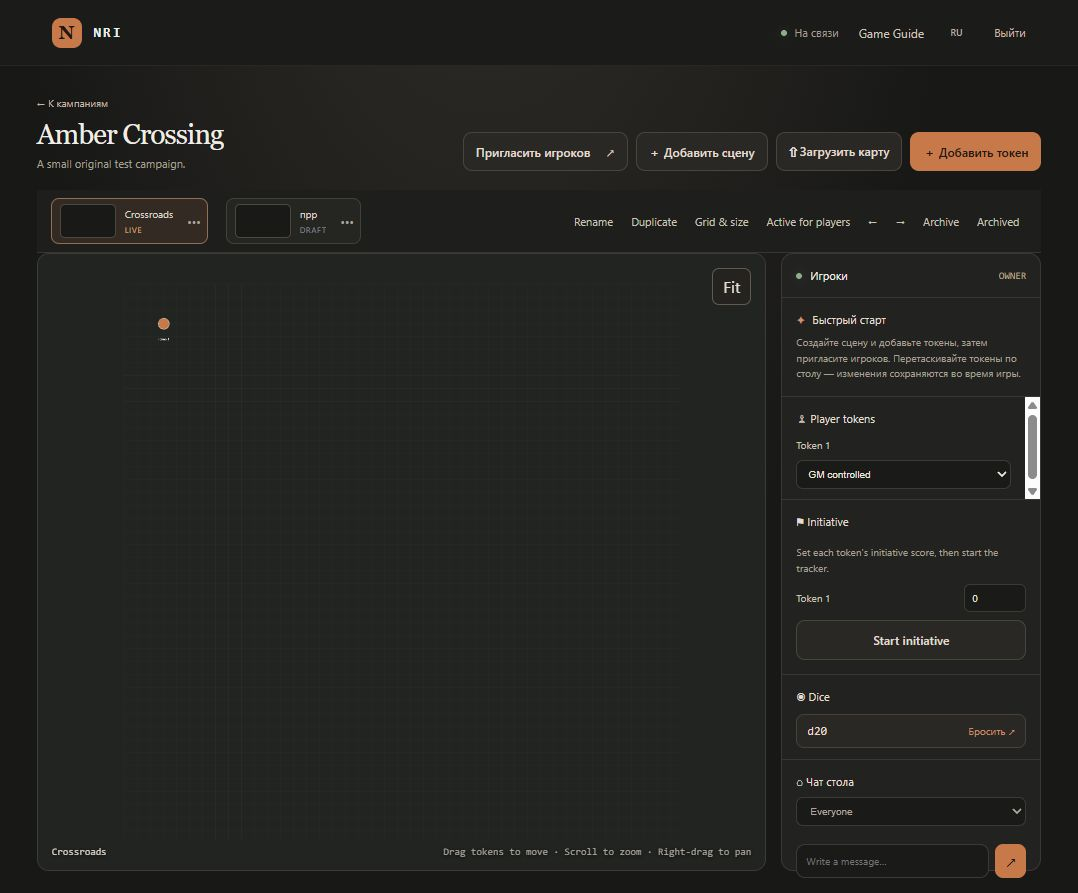
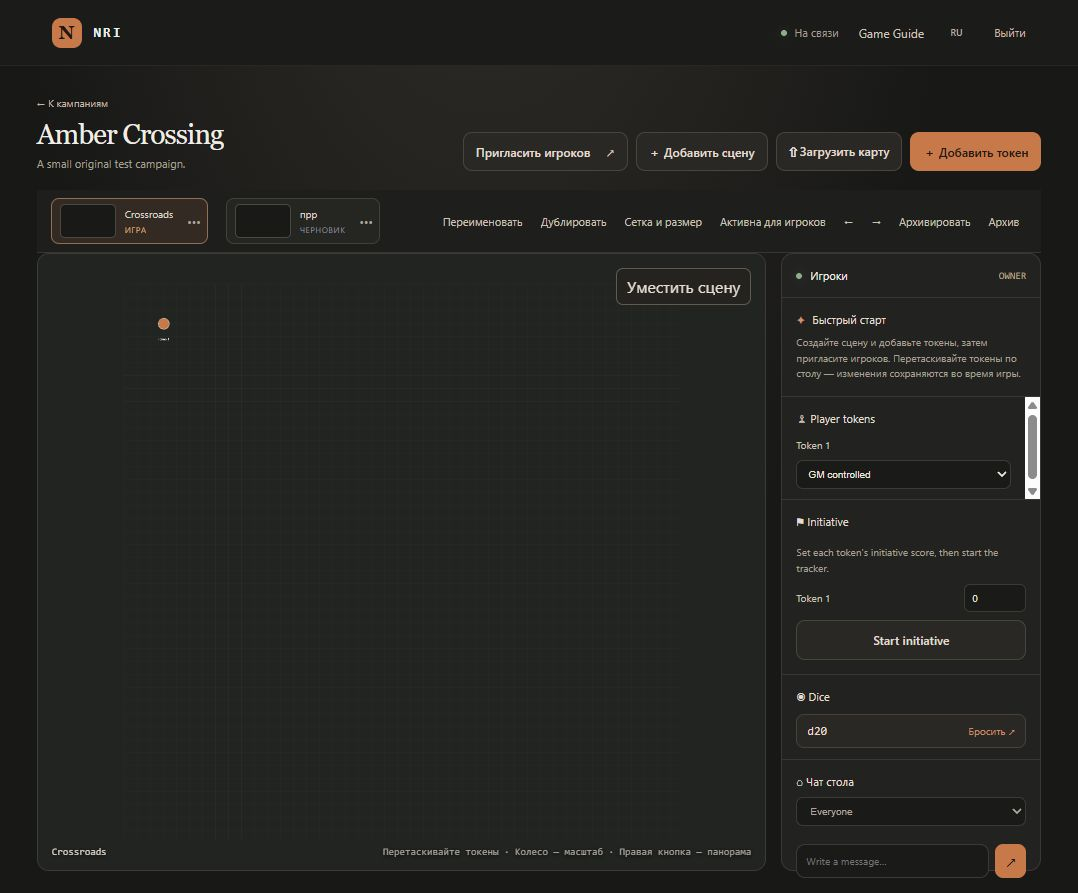
fix(web): localize scene preparation controls

diff --git a/apps/web/src/ui/App.tsx b/apps/web/src/ui/App.tsx
@@ -268,15 +268,15 @@ export function App() {
   return <main className="app-shell"><header className="topbar"><button className="brand" onClick={() => setCampaign(null)}><span className="brand-mark small">N</span><span>NRI</span></button><div className="topbar-right">{campaign && <span className={`live-status ${connected ? 'online' : ''}`}><i />{t(connected ? 'connection' : 'offline')}</span>}<span className="user-chip">{user.displayName}</span><button className="icon-button" title="Language" onClick={() => void i18n.changeLanguage(i18n.language === 'en' ? 'ru' : 'en')}>{i18n.language.toUpperCase()}</button><button className="quiet-button" onClick={() => void api('/api/auth/logout', { method: 'POST' }).finally(() => { setUser(null); setCampaign(null); socket.disconnect(); })}>{t('signOut')}</button></div></header>
     {!campaign ? <section className="campaign-home"><div className="welcome"><p className="eyebrow">YOUR ADVENTURE STARTS HERE</p><h1>{t('campaigns')}</h1><p className="muted">Gather your group and make a little room for the unexpected.</p></div><div className="campaign-layout"><div className="campaign-list">{campaigns.map((item) => <button key={item.campaign.id} className="campaign-card" onClick={() => setCampaign(item)}><span className="campaign-art"><span>✳</span></span><span><strong>{item.campaign.title}</strong><small>{item.campaign.description || item.role}</small></span><span className="card-arrow">↗</span></button>)}{campaigns.length === 0 && <p className="empty-state">{t('noCampaigns')}</p>}</div><form className="create-card" onSubmit={createCampaign}><p className="eyebrow">START SOMETHING NEW</p><h2>{t('newCampaign')}</h2><label>{t('title')}<input name="title" maxLength={80} required /></label><label>{t('description')}<textarea name="description" maxLength={500} rows={3} /></label><button className="button primary" disabled={busy}>{t('create')} <span>↗</span></button></form></div></section> : <section className="table-layout">
       <header className="table-heading"><div><button className="back-link" onClick={() => setCampaign(null)}>← {t('back')}</button><h1>{campaign.campaign.title}</h1><p>{campaign.campaign.description}</p></div><div className="table-actions">{canManage && <><button className="button secondary" onClick={() => void invite()}>{t('invite')} <span>↗</span></button><button className="button secondary" onClick={() => { setSceneTitle(''); setSceneDialog('create'); }}>＋ {t('addScene')}</button><button className="button secondary" onClick={() => mapInput.current?.click()} disabled={!scene}>⇧ {t('uploadMap')}</button><input ref={mapInput} type="file" accept="image/png,image/jpeg,image/webp" hidden onChange={uploadBackground} /><button className="button primary" onClick={() => void addToken()} disabled={!scene}>＋ {t('addToken')}</button></>}</div></header>
-      <div className="scene-workbench"><div className="scene-tabs">{scenes.map((item) => <div className={`scene-tab-wrap ${scene?.id === item.id ? 'selected' : ''}`} key={item.id} onContextMenu={(event) => { event.preventDefault(); if (canManage) setSceneMenu({ x: event.clientX, y: event.clientY, scene: item }); }}><button className="scene-tab" onClick={() => void openScene(item)}><span className="scene-thumbnail" style={item.backgroundAssetId ? { backgroundImage: `url(/api/assets/${item.backgroundAssetId})` } : undefined} /><span className="scene-tab-copy">{item.title}<small className={item.isActive ? 'scene-live' : 'scene-draft'}>{canManage ? (item.isActive ? 'LIVE' : 'DRAFT') : 'SCENE'}</small></span></button>{canManage && <button className="scene-menu-trigger" aria-label={`Actions for ${item.title}`} onClick={(event) => setSceneMenu({ x: event.currentTarget.getBoundingClientRect().left, y: event.currentTarget.getBoundingClientRect().bottom, scene: item })}>•••</button>}</div>)}{!scenes.length && <span className="muted">Create a scene to set up the table.</span>}</div>{canManage && scene && <div className="scene-actions"><button className="quiet-button" onClick={() => { setSceneTitle(scene.title); setSceneDialog('rename'); }}>Rename</button><button className="quiet-button" onClick={() => void duplicateScene(scene)}>Duplicate</button><button className="quiet-button" onClick={() => setSceneDialog('grid')}>Grid & size</button><button className="quiet-button" disabled={scene.isActive} onClick={() => activateScene(scene)}>{scene.isActive ? 'Active for players' : 'Set active'}</button><button className="quiet-button" onClick={() => void reorderScene(scene, -1)}>←</button><button className="quiet-button" onClick={() => void reorderScene(scene, 1)}>→</button><button className="quiet-button" onClick={() => void archiveScene(scene)}>Archive</button><button className="quiet-button" onClick={() => void loadArchivedScenes()}>{showArchivedScenes ? 'Hide archived' : 'Archived'}</button></div>}{canManage && showArchivedScenes && archivedScenes.length > 0 && <div className="archived-scenes">{archivedScenes.map((item) => <span key={item.id}>{item.title}<button className="quiet-button" onClick={() => void restoreScene(item)}>Restore</button></span>)}</div>}</div>
-      <div className="table-content"><section className="table-main">{scene ? <Suspense fallback={<div className="canvas-loading">Loading tabletop…</div>}><TableCanvas tokens={tokens} gridSize={scene.gridSize} gridColor={scene.gridColor} gridOpacity={scene.gridOpacity} gridOffsetX={scene.gridOffsetX} gridOffsetY={scene.gridOffsetY} gridEnabled={scene.gridEnabled} snapToGrid={scene.snapToGrid} backgroundUrl={scene.backgroundAssetId ? `/api/assets/${scene.backgroundAssetId}` : undefined} sceneId={scene.id} sceneWidth={scene.width} sceneHeight={scene.height} cameraX={scene.cameraX} cameraY={scene.cameraY} cameraZoom={scene.cameraZoom} onMove={moveToken} canEdit={(token) => canManage || token.ownerUserId === user.id} /></Suspense> : <div className="empty-table"><div className="brand-mark">✳</div><h2>{t('guide')}</h2><p>{t('guideText')}</p>{canManage && <button className="button primary" onClick={() => setSceneDialog('create')}>{t('addScene')}</button>}</div>}<div className="canvas-toolbar"><span>{scene?.title ?? t('mapLabel')}</span><span className="zoom-hint">Drag tokens to move · Scroll to zoom · Right-drag to pan</span></div></section><aside className="right-rail"><div className="rail-header"><span className="online-dot" /> {t('players')} <span className="role-badge">{role}</span></div><section className="rail-section"><div className="section-title"><span>✦</span> {t('guide')}</div><p className="guide-copy">{t('guideText')}</p></section>{canManage && <section className="rail-section token-owners"><div className="section-title">♙ Player tokens</div>{tokens.map((token) => <label key={token.id}>{token.name}<select aria-label={`Owner for ${token.name}`} value={token.ownerUserId ?? ''} onChange={(event) => void assignToken(token, event.target.value)}><option value="">GM controlled</option>{members.filter((member) => member.role === 'PLAYER').map((member) => <option value={member.userId} key={member.userId}>{member.displayName}</option>)}</select></label>)}</section>}{scene && <section className="rail-section initiative-section"><div className="section-title">⚑ Initiative</div>{initiative.tracker?.active ? <><p className="guide-copy">Round {initiative.tracker.round}</p><div className="initiative-list">{initiative.entries.map((entry) => <div className={initiative.tracker?.currentEntryId === entry.id ? "initiative-row active" : "initiative-row"} key={entry.id}><span>{entry.label}</span><strong>{entry.score}</strong></div>)}</div>{canManage && <div className="initiative-actions"><button className="button secondary" onClick={() => void advanceInitiative()}>Next turn ↗</button><button className="quiet-button" onClick={() => void stopInitiative()}>Stop</button></div>}</> : canManage ? <><p className="guide-copy">Set each token's initiative score, then start the tracker.</p>{tokens.map((token) => <label className="initiative-score" key={token.id}>{token.name}<input type="number" min="-9999" max="9999" value={initiativeScores[token.id] ?? "0"} onChange={(event) => setInitiativeScores((scores) => ({ ...scores, [token.id]: event.target.value }))} /></label>)}<button className="button secondary" disabled={!tokens.length} onClick={() => void startInitiative()}>Start initiative</button></> : <p className="guide-copy">Initiative is not active.</p>}</section>}<section className="rail-section roll-section"><div className="section-title">◉ Dice</div><button className="roll-button" onClick={rollDice}>d20 <span>{t('roll')} ↗</span></button>{rolls.slice(-4).reverse().map((roll, i) => <div className="roll-row" key={`${roll.id ?? i}-${i}`}><span>{roll.displayName} rolled {roll.expression}</span><strong>{roll.result}</strong></div>)}</section><section className="rail-section chat-section"><div className="section-title">◌ {t('chat')}</div><select className="message-recipient" aria-label="Message recipient" value={messageRecipient} onChange={(event) => setMessageRecipient(event.target.value)}><option value="">Everyone</option>{members.filter((member) => member.userId !== user.id && (canManage || member.role === 'OWNER' || member.role === 'GM')).map((member) => <option key={member.userId} value={member.userId}>Private · {member.displayName}</option>)}</select><div className="chat-messages">{messages.map((message) => <div className={`chat-message ${message.private ? 'private' : ''}`} key={message.id}><strong>{message.private ? '🔒 ' : ''}{message.displayName}</strong><p>{message.body}</p></div>)}</div><form className="chat-compose" onSubmit={sendChat}><input value={chatText} onChange={(e) => setChatText(e.target.value)} maxLength={2000} placeholder="Write a message…" /><button aria-label={t('send')}>↗</button></form></section></aside></div>
+      <div className="scene-workbench"><div className="scene-tabs">{scenes.map((item) => <div className={`scene-tab-wrap ${scene?.id === item.id ? 'selected' : ''}`} key={item.id} onContextMenu={(event) => { event.preventDefault(); if (canManage) setSceneMenu({ x: event.clientX, y: event.clientY, scene: item }); }}><button className="scene-tab" onClick={() => void openScene(item)}><span className="scene-thumbnail" style={item.backgroundAssetId ? { backgroundImage: `url(/api/assets/${item.backgroundAssetId})` } : undefined} /><span className="scene-tab-copy">{item.title}<small className={item.isActive ? 'scene-live' : 'scene-draft'}>{canManage ? t(item.isActive ? 'live' : 'draft') : t('scene')}</small></span></button>{canManage && <button className="scene-menu-trigger" aria-label={`Actions for ${item.title}`} onClick={(event) => setSceneMenu({ x: event.currentTarget.getBoundingClientRect().left, y: event.currentTarget.getBoundingClientRect().bottom, scene: item })}>•••</button>}</div>)}{!scenes.length && <span className="muted">Create a scene to set up the table.</span>}</div>{canManage && scene && <div className="scene-actions"><button className="quiet-button" onClick={() => { setSceneTitle(scene.title); setSceneDialog('rename'); }}>{t('renameScene')}</button><button className="quiet-button" onClick={() => void duplicateScene(scene)}>{t('duplicateScene')}</button><button className="quiet-button" onClick={() => setSceneDialog('grid')}>{t('gridSettings')}</button><button className="quiet-button" disabled={scene.isActive} onClick={() => activateScene(scene)}>{scene.isActive ? t('activeForPlayers') : t('setActive')}</button><button className="quiet-button" onClick={() => void reorderScene(scene, -1)}>←</button><button className="quiet-button" onClick={() => void reorderScene(scene, 1)}>→</button><button className="quiet-button" onClick={() => void archiveScene(scene)}>{t('archive')}</button><button className="quiet-button" onClick={() => void loadArchivedScenes()}>{showArchivedScenes ? t('hideArchived') : t('archived')}</button></div>}{canManage && showArchivedScenes && archivedScenes.length > 0 && <div className="archived-scenes">{archivedScenes.map((item) => <span key={item.id}>{item.title}<button className="quiet-button" onClick={() => void restoreScene(item)}>{t('restore')}</button></span>)}</div>}</div>
+      <div className="table-content"><section className="table-main">{scene ? <Suspense fallback={<div className="canvas-loading">Loading tabletop…</div>}><TableCanvas tokens={tokens} gridSize={scene.gridSize} gridColor={scene.gridColor} gridOpacity={scene.gridOpacity} gridOffsetX={scene.gridOffsetX} gridOffsetY={scene.gridOffsetY} gridEnabled={scene.gridEnabled} snapToGrid={scene.snapToGrid} backgroundUrl={scene.backgroundAssetId ? `/api/assets/${scene.backgroundAssetId}` : undefined} sceneId={scene.id} sceneWidth={scene.width} sceneHeight={scene.height} cameraX={scene.cameraX} cameraY={scene.cameraY} cameraZoom={scene.cameraZoom} onMove={moveToken} fitLabel={t('fitScene')} canEdit={(token) => canManage || token.ownerUserId === user.id} /></Suspense> : <div className="empty-table"><div className="brand-mark">✳</div><h2>{t('guide')}</h2><p>{t('guideText')}</p>{canManage && <button className="button primary" onClick={() => setSceneDialog('create')}>{t('addScene')}</button>}</div>}<div className="canvas-toolbar"><span>{scene?.title ?? t('mapLabel')}</span><span className="zoom-hint">{t('canvasHelp')}</span></div></section><aside className="right-rail"><div className="rail-header"><span className="online-dot" /> {t('players')} <span className="role-badge">{role}</span></div><section className="rail-section"><div className="section-title"><span>✦</span> {t('guide')}</div><p className="guide-copy">{t('guideText')}</p></section>{canManage && <section className="rail-section token-owners"><div className="section-title">♙ Player tokens</div>{tokens.map((token) => <label key={token.id}>{token.name}<select aria-label={`Owner for ${token.name}`} value={token.ownerUserId ?? ''} onChange={(event) => void assignToken(token, event.target.value)}><option value="">GM controlled</option>{members.filter((member) => member.role === 'PLAYER').map((member) => <option value={member.userId} key={member.userId}>{member.displayName}</option>)}</select></label>)}</section>}{scene && <section className="rail-section initiative-section"><div className="section-title">⚑ Initiative</div>{initiative.tracker?.active ? <><p className="guide-copy">Round {initiative.tracker.round}</p><div className="initiative-list">{initiative.entries.map((entry) => <div className={initiative.tracker?.currentEntryId === entry.id ? "initiative-row active" : "initiative-row"} key={entry.id}><span>{entry.label}</span><strong>{entry.score}</strong></div>)}</div>{canManage && <div className="initiative-actions"><button className="button secondary" onClick={() => void advanceInitiative()}>Next turn ↗</button><button className="quiet-button" onClick={() => void stopInitiative()}>Stop</button></div>}</> : canManage ? <><p className="guide-copy">Set each token's initiative score, then start the tracker.</p>{tokens.map((token) => <label className="initiative-score" key={token.id}>{token.name}<input type="number" min="-9999" max="9999" value={initiativeScores[token.id] ?? "0"} onChange={(event) => setInitiativeScores((scores) => ({ ...scores, [token.id]: event.target.value }))} /></label>)}<button className="button secondary" disabled={!tokens.length} onClick={() => void startInitiative()}>Start initiative</button></> : <p className="guide-copy">Initiative is not active.</p>}</section>}<section className="rail-section roll-section"><div className="section-title">◉ Dice</div><button className="roll-button" onClick={rollDice}>d20 <span>{t('roll')} ↗</span></button>{rolls.slice(-4).reverse().map((roll, i) => <div className="roll-row" key={`${roll.id ?? i}-${i}`}><span>{roll.displayName} rolled {roll.expression}</span><strong>{roll.result}</strong></div>)}</section><section className="rail-section chat-section"><div className="section-title">◌ {t('chat')}</div><select className="message-recipient" aria-label="Message recipient" value={messageRecipient} onChange={(event) => setMessageRecipient(event.target.value)}><option value="">Everyone</option>{members.filter((member) => member.userId !== user.id && (canManage || member.role === 'OWNER' || member.role === 'GM')).map((member) => <option key={member.userId} value={member.userId}>Private · {member.displayName}</option>)}</select><div className="chat-messages">{messages.map((message) => <div className={`chat-message ${message.private ? 'private' : ''}`} key={message.id}><strong>{message.private ? '🔒 ' : ''}{message.displayName}</strong><p>{message.body}</p></div>)}</div><form className="chat-compose" onSubmit={sendChat}><input value={chatText} onChange={(e) => setChatText(e.target.value)} maxLength={2000} placeholder="Write a message…" /><button aria-label={t('send')}>↗</button></form></section></aside></div>
       {error && <button className="toast-error" onClick={() => setError('')}>{error} ×</button>}
       {notice && <button className="toast-notice" onClick={() => setNotice('')}>{notice} ×</button>}
-      {sceneDialog === 'create' && <div className="modal-backdrop"><form className="dialog-card" onSubmit={(event) => { event.preventDefault(); void addScene(); }}><p className="eyebrow">NEW LOCATION</p><h2>{t('addScene')}</h2><label>{t('sceneName')}<input autoFocus value={sceneTitle} onChange={(event) => setSceneTitle(event.target.value)} maxLength={80} required /></label><div className="dialog-actions"><button type="button" className="button secondary" onClick={() => { setSceneTitle(''); setSceneDialog(null); }}>{t('cancel')}</button><button className="button primary">{t('create')}</button></div></form></div>}
-      {sceneDialog === 'rename' && <div className="modal-backdrop"><form className="dialog-card" onSubmit={(event) => { event.preventDefault(); void renameScene(); }}><p className="eyebrow">SCENE</p><h2>Rename scene</h2><label>Name<input autoFocus value={sceneTitle} onChange={(event) => setSceneTitle(event.target.value)} maxLength={80} required /></label><div className="dialog-actions"><button type="button" className="button secondary" onClick={() => setSceneDialog(null)}>{t('cancel')}</button><button className="button primary">Save</button></div></form></div>}
-      {sceneDialog === 'grid' && scene && <div className="modal-backdrop"><form className="dialog-card settings-dialog" onSubmit={(event) => void saveGridSettings(event)}><p className="eyebrow">SCENE SETTINGS</p><h2>Grid & play area</h2><div className="settings-grid"><label>Cell size<input name="gridSize" type="number" min="8" max="256" defaultValue={scene.gridSize} required /></label><label>Grid color<input name="gridColor" type="color" defaultValue={scene.gridColor} /></label><label>Opacity<input name="gridOpacity" type="number" min="0" max="1" step="0.05" defaultValue={scene.gridOpacity} required /></label><label>Offset X<input name="gridOffsetX" type="number" step="0.5" defaultValue={scene.gridOffsetX} required /></label><label>Offset Y<input name="gridOffsetY" type="number" step="0.5" defaultValue={scene.gridOffsetY} required /></label><label>Scene width<input name="width" type="number" min="256" max="16384" step="128" defaultValue={scene.width} required /></label><label>Scene height<input name="height" type="number" min="256" max="16384" step="128" defaultValue={scene.height} required /></label><label>Distance per cell<input name="unitsPerCell" type="number" min="0.01" max="100000" step="0.5" defaultValue={scene.unitsPerCell} required /></label><label>Unit label<input name="unitLabel" maxLength={24} defaultValue={scene.unitLabel} required /></label><label>Camera center X<input name="cameraX" type="number" min="-32768" max="32768" step="1" defaultValue={scene.cameraX} required /></label><label>Camera center Y<input name="cameraY" type="number" min="-32768" max="32768" step="1" defaultValue={scene.cameraY} required /></label><label>Camera zoom<input name="cameraZoom" type="number" min="0.25" max="4" step="0.05" defaultValue={scene.cameraZoom} required /></label><label className="check-setting"><input name="gridEnabled" type="checkbox" defaultChecked={scene.gridEnabled} /> Show grid</label><label className="check-setting"><input name="snapToGrid" type="checkbox" defaultChecked={scene.snapToGrid} /> Snap tokens to grid</label></div><div className="dialog-actions"><button type="button" className="button secondary" onClick={() => setSceneDialog(null)}>{t('cancel')}</button><button className="button primary">Save settings</button></div></form></div>}
-      {confirmAction && <div className="modal-backdrop"><div className="dialog-card"><p className="eyebrow">CONFIRM CHANGE</p><h2>{confirmText}</h2><div className="dialog-actions"><button className="button secondary" onClick={() => setConfirmAction(null)}>{t('cancel')}</button><button className="button primary" onClick={() => confirmAction()}>{t('confirm')}</button></div></div></div>}
-      {sceneMenu && <div className="scene-context-backdrop" onClick={() => setSceneMenu(null)} onContextMenu={(event) => { event.preventDefault(); setSceneMenu(null); }}><div className="scene-context-menu" style={{ left: Math.min(sceneMenu.x, window.innerWidth - 190), top: Math.min(sceneMenu.y, window.innerHeight - 250) }} onClick={(event) => event.stopPropagation()}><button onClick={() => { setSceneTitle(sceneMenu.scene.title); setSceneDialog('rename'); setSceneMenu(null); }}>Rename</button><button onClick={() => { void duplicateScene(sceneMenu.scene); setSceneMenu(null); }}>Duplicate as draft</button><button onClick={() => { const target = sceneMenu.scene; setSceneMenu(null); if (scene?.id === target.id) setSceneDialog('grid'); else void openScene(target).then(() => setSceneDialog('grid')); }}>Grid and size</button><button disabled={sceneMenu.scene.isActive} onClick={() => { activateScene(sceneMenu.scene); setSceneMenu(null); }}>Make active for players</button><button onClick={() => { void archiveScene(sceneMenu.scene); setSceneMenu(null); }}>Archive</button></div></div>}
+      {sceneDialog === 'create' && <div className="modal-backdrop"><form className="dialog-card" onSubmit={(event) => { event.preventDefault(); void addScene(); }}><p className="eyebrow">{t('newLocation')}</p><h2>{t('addScene')}</h2><label>{t('sceneName')}<input autoFocus value={sceneTitle} onChange={(event) => setSceneTitle(event.target.value)} maxLength={80} required /></label><div className="dialog-actions"><button type="button" className="button secondary" onClick={() => { setSceneTitle(''); setSceneDialog(null); }}>{t('cancel')}</button><button className="button primary">{t('create')}</button></div></form></div>}
+      {sceneDialog === 'rename' && <div className="modal-backdrop"><form className="dialog-card" onSubmit={(event) => { event.preventDefault(); void renameScene(); }}><p className="eyebrow">SCENE</p><h2>{t('renameScene')} {t('scene').toLowerCase()}</h2><label>{t('sceneName')}<input autoFocus value={sceneTitle} onChange={(event) => setSceneTitle(event.target.value)} maxLength={80} required /></label><div className="dialog-actions"><button type="button" className="button secondary" onClick={() => setSceneDialog(null)}>{t('cancel')}</button><button className="button primary">{t('save')}</button></div></form></div>}
+      {sceneDialog === 'grid' && scene && <div className="modal-backdrop"><form className="dialog-card settings-dialog" onSubmit={(event) => void saveGridSettings(event)}><p className="eyebrow">{t('sceneSettings')}</p><h2>{t('gridSettings')}</h2><div className="settings-grid"><label>{t('cellSize')}<input name="gridSize" type="number" min="8" max="256" defaultValue={scene.gridSize} required /></label><label>{t('gridColor')}<input name="gridColor" type="color" defaultValue={scene.gridColor} /></label><label>{t('opacity')}<input name="gridOpacity" type="number" min="0" max="1" step="0.05" defaultValue={scene.gridOpacity} required /></label><label>{t('offsetX')}<input name="gridOffsetX" type="number" step="0.5" defaultValue={scene.gridOffsetX} required /></label><label>{t('offsetY')}<input name="gridOffsetY" type="number" step="0.5" defaultValue={scene.gridOffsetY} required /></label><label>{t('sceneWidth')}<input name="width" type="number" min="256" max="16384" step="128" defaultValue={scene.width} required /></label><label>{t('sceneHeight')}<input name="height" type="number" min="256" max="16384" step="128" defaultValue={scene.height} required /></label><label>{t('distancePerCell')}<input name="unitsPerCell" type="number" min="0.01" max="100000" step="0.5" defaultValue={scene.unitsPerCell} required /></label><label>{t('unitLabel')}<input name="unitLabel" maxLength={24} defaultValue={scene.unitLabel} required /></label><label>{t('cameraCenterX')}<input name="cameraX" type="number" min="-32768" max="32768" step="1" defaultValue={scene.cameraX} required /></label><label>{t('cameraCenterY')}<input name="cameraY" type="number" min="-32768" max="32768" step="1" defaultValue={scene.cameraY} required /></label><label>{t('cameraZoom')}<input name="cameraZoom" type="number" min="0.25" max="4" step="0.05" defaultValue={scene.cameraZoom} required /></label><label className="check-setting"><input name="gridEnabled" type="checkbox" defaultChecked={scene.gridEnabled} /> {t('showGrid')}</label><label className="check-setting"><input name="snapToGrid" type="checkbox" defaultChecked={scene.snapToGrid} /> {t('snapGrid')}</label></div><div className="dialog-actions"><button type="button" className="button secondary" onClick={() => setSceneDialog(null)}>{t('cancel')}</button><button className="button primary">{t('saveSettings')}</button></div></form></div>}
+      {confirmAction && <div className="modal-backdrop"><div className="dialog-card"><p className="eyebrow">{t('confirmChange')}</p><h2>{confirmText}</h2><div className="dialog-actions"><button className="button secondary" onClick={() => setConfirmAction(null)}>{t('cancel')}</button><button className="button primary" onClick={() => confirmAction()}>{t('confirm')}</button></div></div></div>}
+      {sceneMenu && <div className="scene-context-backdrop" onClick={() => setSceneMenu(null)} onContextMenu={(event) => { event.preventDefault(); setSceneMenu(null); }}><div className="scene-context-menu" style={{ left: Math.min(sceneMenu.x, window.innerWidth - 190), top: Math.min(sceneMenu.y, window.innerHeight - 250) }} onClick={(event) => event.stopPropagation()}><button onClick={() => { setSceneTitle(sceneMenu.scene.title); setSceneDialog('rename'); setSceneMenu(null); }}>{t('renameScene')}</button><button onClick={() => { void duplicateScene(sceneMenu.scene); setSceneMenu(null); }}>{t('duplicateAsDraft')}</button><button onClick={() => { const target = sceneMenu.scene; setSceneMenu(null); if (scene?.id === target.id) setSceneDialog('grid'); else void openScene(target).then(() => setSceneDialog('grid')); }}>{t('gridSettings')}</button><button disabled={sceneMenu.scene.isActive} onClick={() => { activateScene(sceneMenu.scene); setSceneMenu(null); }}>{t('makeActive')}</button><button onClick={() => { void archiveScene(sceneMenu.scene); setSceneMenu(null); }}>{t('archive')}</button></div></div>}
     </section>}
   </main>;
 }

diff --git a/apps/web/src/i18n.ts b/apps/web/src/i18n.ts
@@ -2,7 +2,7 @@ import i18n from 'i18next';
 import { initReactI18next } from 'react-i18next';
 
 void i18n.use(initReactI18next).init({ lng: navigator.language.toLowerCase().startsWith('ru') ? 'ru' : 'en', fallbackLng: 'en', resources: {
-  en: { translation: { brand: 'NRI', subtitle: 'Your table, your world', signIn: 'Sign in', signUp: 'Create account', email: 'Email', password: 'Password', displayName: 'Display name', campaigns: 'Your campaigns', newCampaign: 'New campaign', create: 'Create', cancel: 'Cancel', title: 'Campaign name', description: 'A short description', open: 'Open table', signOut: 'Sign out', scene: 'Scene', sceneName: 'Scene name', addScene: 'Add scene', addToken: 'Add token', uploadMap: 'Upload map', invite: 'Invite players', copy: 'Copy invite link', chat: 'Table chat', send: 'Send', roll: 'Roll', loading: 'Connecting…', players: 'Players', guide: 'Quick start', guideText: 'Create a scene, add tokens, then invite your players. Drag a token to move it; the table saves changes as you play.', back: 'Campaigns', inviteCreated: 'Invite link copied', noCampaigns: 'Your table is waiting. Create a campaign to get started.', connection: 'Live', offline: 'Reconnecting', mapLabel: 'Table canvas', renameScene: 'Rename', duplicateScene: 'Duplicate', gridSettings: 'Grid & size', activeForPlayers: 'Active for players', setActive: 'Set active', archive: 'Archive', archived: 'Archived', hideArchived: 'Hide archived', restore: 'Restore', live: 'LIVE', draft: 'DRAFT', newLocation: 'New location', save: 'Save', confirm: 'Confirm', confirmChange: 'Confirm change', archiveConfirm: 'Archive “{{title}}”? It can be restored later.', activeConfirm: 'Make “{{title}}” the active scene for all players?', duplicateDraft: 'Scene duplicated as a GM draft', activeChanged: 'Active scene changed for players', settingsSaved: 'Scene settings saved', cellSize: 'Cell size', gridColor: 'Grid color', opacity: 'Opacity', offsetX: 'Offset X', offsetY: 'Offset Y', sceneWidth: 'Scene width', sceneHeight: 'Scene height', distancePerCell: 'Distance per cell', unitLabel: 'Unit label', cameraCenterX: 'Camera center X', cameraCenterY: 'Camera center Y', cameraZoom: 'Camera zoom', showGrid: 'Show grid', snapGrid: 'Snap tokens to grid', saveSettings: 'Save settings', makeActive: 'Make active for players', duplicateAsDraft: 'Duplicate as draft', fitScene: 'Fit scene' } },
-  ru: { translation: { brand: 'NRI', subtitle: 'Ваш стол, ваш мир', signIn: 'Войти', signUp: 'Создать аккаунт', email: 'Эл. почта', password: 'Пароль', displayName: 'Имя', campaigns: 'Ваши кампании', newCampaign: 'Новая кампания', create: 'Создать', cancel: 'Отмена', title: 'Название кампании', description: 'Краткое описание', open: 'Открыть стол', signOut: 'Выйти', scene: 'Сцена', sceneName: 'Название сцены', addScene: 'Добавить сцену', addToken: 'Добавить токен', uploadMap: 'Загрузить карту', invite: 'Пригласить игроков', copy: 'Копировать ссылку', chat: 'Чат стола', send: 'Отправить', roll: 'Бросить', loading: 'Подключение…', players: 'Игроки', guide: 'Быстрый старт', guideText: 'Создайте сцену и добавьте токены, затем пригласите игроков. Перетаскивайте токены по столу — изменения сохраняются во время игры.', back: 'К кампаниям', inviteCreated: 'Ссылка приглашения скопирована', noCampaigns: 'Стол ждёт вас. Создайте кампанию, чтобы начать.', connection: 'На связи', offline: 'Восстанавливаем связь', mapLabel: 'Игровой стол', renameScene: 'Переименовать', duplicateScene: 'Дублировать', gridSettings: 'Сетка и размер', activeForPlayers: 'Активна для игроков', setActive: 'Сделать активной', archive: 'Архивировать', archived: 'Архив', hideArchived: 'Скрыть архив', restore: 'Восстановить', live: 'ИГРА', draft: 'ЧЕРНОВИК', newLocation: 'Новая локация', save: 'Сохранить', confirm: 'Подтвердить', confirmChange: 'Подтвердите действие', archiveConfirm: 'Архивировать «{{title}}»? Сцену можно будет восстановить.', activeConfirm: 'Сделать «{{title}}» активной сценой для всех игроков?', duplicateDraft: 'Копия сцены создана как черновик ведущего', activeChanged: 'Активная сцена изменена для игроков', settingsSaved: 'Настройки сцены сохранены', cellSize: 'Размер клетки', gridColor: 'Цвет сетки', opacity: 'Прозрачность', offsetX: 'Смещение X', offsetY: 'Смещение Y', sceneWidth: 'Ширина сцены', sceneHeight: 'Высота сцены', distancePerCell: 'Расстояние на клетку', unitLabel: 'Единица измерения', cameraCenterX: 'Центр камеры X', cameraCenterY: 'Центр камеры Y', cameraZoom: 'Масштаб камеры', showGrid: 'Показывать сетку', snapGrid: 'Привязка токенов к сетке', saveSettings: 'Сохранить настройки', makeActive: 'Сделать активной для игроков', duplicateAsDraft: 'Дублировать как черновик', fitScene: 'Уместить сцену' } }
+  en: { translation: { brand: 'NRI', subtitle: 'Your table, your world', signIn: 'Sign in', signUp: 'Create account', email: 'Email', password: 'Password', displayName: 'Display name', campaigns: 'Your campaigns', newCampaign: 'New campaign', create: 'Create', cancel: 'Cancel', title: 'Campaign name', description: 'A short description', open: 'Open table', signOut: 'Sign out', scene: 'Scene', sceneName: 'Scene name', addScene: 'Add scene', addToken: 'Add token', uploadMap: 'Upload map', invite: 'Invite players', copy: 'Copy invite link', chat: 'Table chat', send: 'Send', roll: 'Roll', loading: 'Connecting…', players: 'Players', guide: 'Quick start', guideText: 'Create a scene, add tokens, then invite your players. Drag a token to move it; the table saves changes as you play.', back: 'Campaigns', inviteCreated: 'Invite link copied', noCampaigns: 'Your table is waiting. Create a campaign to get started.', connection: 'Live', offline: 'Reconnecting', mapLabel: 'Table canvas', renameScene: 'Rename', duplicateScene: 'Duplicate', gridSettings: 'Grid & size', activeForPlayers: 'Active for players', setActive: 'Set active', archive: 'Archive', archived: 'Archived', hideArchived: 'Hide archived', restore: 'Restore', live: 'LIVE', draft: 'DRAFT', newLocation: 'New location', save: 'Save', confirm: 'Confirm', confirmChange: 'Confirm change', archiveConfirm: 'Archive “{{title}}”? It can be restored later.', activeConfirm: 'Make “{{title}}” the active scene for all players?', duplicateDraft: 'Scene duplicated as a GM draft', activeChanged: 'Active scene changed for players', settingsSaved: 'Scene settings saved', cellSize: 'Cell size', gridColor: 'Grid color', opacity: 'Opacity', offsetX: 'Offset X', offsetY: 'Offset Y', sceneWidth: 'Scene width', sceneHeight: 'Scene height', distancePerCell: 'Distance per cell', unitLabel: 'Unit label', cameraCenterX: 'Camera center X', cameraCenterY: 'Camera center Y', cameraZoom: 'Camera zoom', showGrid: 'Show grid', snapGrid: 'Snap tokens to grid', saveSettings: 'Save settings', makeActive: 'Make active for players', duplicateAsDraft: 'Duplicate as draft', fitScene: 'Fit scene', sceneSettings: 'SCENE SETTINGS', canvasHelp: 'Drag tokens to move · Scroll to zoom · Right-drag to pan' } },
+  ru: { translation: { brand: 'NRI', subtitle: 'Ваш стол, ваш мир', signIn: 'Войти', signUp: 'Создать аккаунт', email: 'Эл. почта', password: 'Пароль', displayName: 'Имя', campaigns: 'Ваши кампании', newCampaign: 'Новая кампания', create: 'Создать', cancel: 'Отмена', title: 'Название кампании', description: 'Краткое описание', open: 'Открыть стол', signOut: 'Выйти', scene: 'Сцена', sceneName: 'Название сцены', addScene: 'Добавить сцену', addToken: 'Добавить токен', uploadMap: 'Загрузить карту', invite: 'Пригласить игроков', copy: 'Копировать ссылку', chat: 'Чат стола', send: 'Отправить', roll: 'Бросить', loading: 'Подключение…', players: 'Игроки', guide: 'Быстрый старт', guideText: 'Создайте сцену и добавьте токены, затем пригласите игроков. Перетаскивайте токены по столу — изменения сохраняются во время игры.', back: 'К кампаниям', inviteCreated: 'Ссылка приглашения скопирована', noCampaigns: 'Стол ждёт вас. Создайте кампанию, чтобы начать.', connection: 'На связи', offline: 'Восстанавливаем связь', mapLabel: 'Игровой стол', renameScene: 'Переименовать', duplicateScene: 'Дублировать', gridSettings: 'Сетка и размер', activeForPlayers: 'Активна для игроков', setActive: 'Сделать активной', archive: 'Архивировать', archived: 'Архив', hideArchived: 'Скрыть архив', restore: 'Восстановить', live: 'ИГРА', draft: 'ЧЕРНОВИК', newLocation: 'Новая локация', save: 'Сохранить', confirm: 'Подтвердить', confirmChange: 'Подтвердите действие', archiveConfirm: 'Архивировать «{{title}}»? Сцену можно будет восстановить.', activeConfirm: 'Сделать «{{title}}» активной сценой для всех игроков?', duplicateDraft: 'Копия сцены создана как черновик ведущего', activeChanged: 'Активная сцена изменена для игроков', settingsSaved: 'Настройки сцены сохранены', cellSize: 'Размер клетки', gridColor: 'Цвет сетки', opacity: 'Прозрачность', offsetX: 'Смещение X', offsetY: 'Смещение Y', sceneWidth: 'Ширина сцены', sceneHeight: 'Высота сцены', distancePerCell: 'Расстояние на клетку', unitLabel: 'Единица измерения', cameraCenterX: 'Центр камеры X', cameraCenterY: 'Центр камеры Y', cameraZoom: 'Масштаб камеры', showGrid: 'Показывать сетку', snapGrid: 'Привязка токенов к сетке', saveSettings: 'Сохранить настройки', makeActive: 'Сделать активной для игроков', duplicateAsDraft: 'Дублировать как черновик', fitScene: 'Уместить сцену', sceneSettings: 'НАСТРОЙКИ СЦЕНЫ', canvasHelp: 'Перетаскивайте токены · Колесо — масштаб · Правая кнопка — панорама' } }
 } });
 export default i18n;

diff --git a/apps/web/src/ui/TableCanvas.tsx b/apps/web/src/ui/TableCanvas.tsx
@@ -6,7 +6,7 @@ import { zoomToPointer } from './canvasMath';
 type Props = {
   tokens: PublicToken[]; gridSize: number; gridColor: string; gridOpacity: number; gridOffsetX: number; gridOffsetY: number; gridEnabled: boolean; snapToGrid: boolean;
   backgroundUrl?: string | undefined; sceneId: string; sceneWidth: number; sceneHeight: number; cameraX: number; cameraY: number; cameraZoom: number;
-  onMove: (token: PublicToken, x: number, y: number) => void; canEdit: (token: PublicToken) => boolean;
+  onMove: (token: PublicToken, x: number, y: number) => void; canEdit: (token: PublicToken) => boolean; fitLabel: string;
 };
 
 export function TableCanvas(props: Props) {
@@ -130,5 +130,5 @@ export function TableCanvas(props: Props) {
     if (canvas) canvas.dispatchEvent(new Event('nri-refresh'));
   }, [tokens, gridSize, gridColor, gridOpacity, gridOffsetX, gridOffsetY, gridEnabled, snapToGrid, backgroundUrl, sceneId, sceneWidth, sceneHeight, cameraX, cameraY, cameraZoom]);
 
-  return <div className="table-canvas" ref={host}><div className="canvas-controls"><button aria-label="Fit scene" title="Fit scene" onClick={() => window.dispatchEvent(new Event('nri-fit-scene'))}>Fit</button></div></div>;
+  return <div className="table-canvas" ref={host}><div className="canvas-controls"><button aria-label={props.fitLabel} title={props.fitLabel} onClick={() => window.dispatchEvent(new Event('nri-fit-scene'))}>{props.fitLabel}</button></div></div>;
 }

diff --git a/docs/releases/V0.1.1_ACCEPTANCE_REPORT.md b/docs/releases/V0.1.1_ACCEPTANCE_REPORT.md
@@ -17,7 +17,7 @@ This report records work completed so far. It is not an acceptance declaration. 
 - Player scene lists and token snapshots are limited to the active, non-archived scene. Players cannot request tokens from drafts or archived scenes. Scene activation is broadcast as `{sceneId}`; active-scene setting changes broadcast a public projection. Member removal emits a user-scoped `membership:removed` notice before the socket is removed from campaign rooms.
 - Added UI controls for scene lifecycle, confirmation dialogs, archive recovery, thumbnails, and grid/map/camera configuration. The color picker keeps unsaved changes out of the current scene state.
 - Bounded grid drawing to scene dimensions. Camera zoom math preserves the world coordinate under the pointer and is covered by tests.
-- Lazy-loaded `TableCanvas`/PixiJS. Compared with the baseline entry chunk at 598.21 kB minified / 180.66 kB gzip, the current build reports an entry chunk of 343.14 kB / 106.25 kB and a tabletop chunk of 269.82 kB / 78.96 kB. No chunk-size warning was reported in the latest web build.
+- Lazy-loaded `TableCanvas`/PixiJS and localized scene preparation controls and camera hints. Compared with the baseline entry chunk at 598.21 kB minified / 180.66 kB gzip, the current build reports an entry chunk of 343.52 kB / 106.36 kB and a tabletop chunk of 269.82 kB / 78.96 kB. No chunk-size warning was reported in the latest web build.
 - Added server and web Vitest suites and removed `--passWithNoTests` from those package scripts. Added scene lifecycle assertions to the existing multiplayer API/Socket.IO smoke suite.
 
 ## Verification performed
@@ -25,8 +25,7 @@ This report records work completed so far. It is not an acceptance declaration. 
 | Check | Result |
 |---|---|
 | Migration on local development DB and isolated `nri_test` PostgreSQL DB | Passed before final code review |
-| `corepack pnpm@12.23.0 typecheck` | Passed after scene policy helper integration |
-| `corepack pnpm@12.23.0 build` | Passed; main entry 343.14 kB / 106.25 kB gzip, tabletop chunk 269.82 kB / 78.96 kB gzip; no chunk warning |
+| `corepack pnpm@12.23.0 build` | Passed; main entry 343.52 kB / 106.36 kB gzip, tabletop chunk 269.82 kB / 78.96 kB gzip; no chunk warning |
 | `corepack pnpm@12.23.0 typecheck` | Passed |
 | `corepack pnpm@12.23.0 test` | 16 tests passed: 8 shared contracts, 6 server scene-access policy, and 2 web camera math |
 | Server multiplayer smoke against local `nri_test` API | Passed, including active/draft privacy, settings and stale-version conflict, reorder, activation event, fallback, archive, restore, concurrent token conflict, and membership socket revocation |
@@ -38,7 +37,7 @@ This report records work completed so far. It is not an acceptance declaration. 
 
 ![Amber Crossing scene tabs and tabletop canvas](v0-1-1-tabletop.png)
 
-This is a real local browser capture of the existing demo while signed in as its owner. It demonstrates the scene tab workbench and current tabletop shell; it is not evidence of player privacy or a full session acceptance.
+This is a real local browser capture of the existing demo while signed in as its owner. It demonstrates the Russian scene tab workbench and current tabletop shell; it is not evidence of player privacy or a full session acceptance.
 
 The migration was applied to local `nri_dev` and isolated `nri_test`; later edits did not change schema. GitHub Actions run #12 passed on the latest published head `3f8aaaa`, including the code and documentation state before this report-only evidence refresh. This refresh changes no implementation and triggers CI for its new head.
 

diff --git a/CHANGELOG.md b/CHANGELOG.md
@@ -9,6 +9,7 @@ All notable project changes will be recorded here.
 - Added regression coverage for scene privacy, stale edits, activation, fallback, and recovery to the multiplayer smoke runner.
 - Added non-empty Vitest suites for server scene access policy and web camera zoom math; removed `--passWithNoTests` from server and web scripts.
 - Lazy-loaded the Pixi tabletop; current measured web entry and canvas chunks are documented in the V0.1.1 acceptance report.
+- Localized scene preparation actions, settings, camera controls, and canvas hints in Russian and English.
 - V0.1.1 is still in progress. Layers, calibration, richer tokens, asset library, other tabletop tools, Playwright, security review, backup/restore, performance testing, and demo expansion remain open.
 
 ## Unreleased — V0.1 foundation
